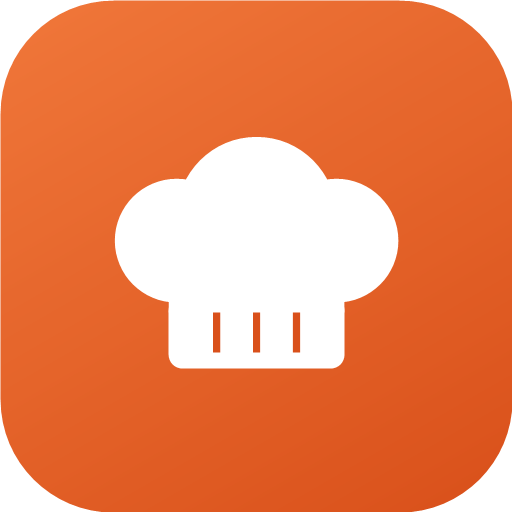
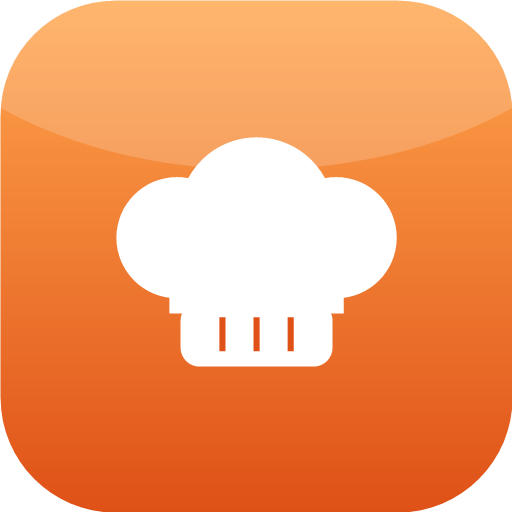
Guida in-app (onboarding e help) e nuova icona in stile iOS

diff --git a/js/ui.js b/js/ui.js
@@ -126,6 +126,15 @@ export function mount(rootEl) {
   document.querySelectorAll(".bottom-nav__btn").forEach((btn) => {
     btn.addEventListener("click", () => navigate(btn.dataset.route));
   });
+  const help = document.getElementById("helpBtn");
+  if (help) help.addEventListener("click", () => openGuide());
+  // Guida al primo avvio.
+  try {
+    if (!localStorage.getItem("ricettario.guide.v1")) {
+      localStorage.setItem("ricettario.guide.v1", "1");
+      setTimeout(() => openGuide(true), 500);
+    }
+  } catch {}
 }
 
 export function navigate(route) {
@@ -816,6 +825,40 @@ function renderSitiTab() {
   ).join("");
 }
 
+// ---------------- Guida / aiuto ----------------
+const GUIDE_SECTIONS = [
+  { icon: "cooking-pot", title: "Strumenti & ricette", text: "Organizza le ricette per strumento di cottura. Crea uno strumento (forno, friggitrice ad aria…) e salva sotto le ricette con link, ingredienti, porzioni e passi." },
+  { icon: "download-simple", title: "Importa dai link", text: "Nel form di una ricetta incolla il link e tocca \"Importa\": ingredienti e preparazione si compilano da soli (sui siti che lo permettono)." },
+  { icon: "book-open", title: "Ricettario", text: "Cerca idee online o tra i siti italiani; tocca \"Salva\" per aggiungerle a uno dei tuoi strumenti." },
+  { icon: "fork-knife", title: "Porzioni su misura", text: "Apri una ricetta e cambia il numero di persone con + e −: le quantità degli ingredienti si ricalcolano da sole." },
+  { icon: "shopping-cart-simple", title: "Spesa & Dispensa", text: "Aggiungi gli ingredienti alla lista della spesa (uniti e divisi per reparto). In \"Dispensa\" metti ciò che hai già in casa: non verrà rimesso nella spesa." },
+  { icon: "fire", title: "Modalità cucina", text: "Nelle ricette con i passi, tocca \"Modalità cucina\": istruzioni passo-passo, timer e schermo che resta acceso mentre cucini." },
+  { icon: "heart", title: "Preferiti, voti e ricerca", text: "Metti il cuore alle ricette migliori, dai un voto a stelle e cercale per nome o ingrediente dalla schermata Strumenti." },
+  { icon: "calendar-dots", title: "Pianificazione", text: "Nel calendario assegna le ricette ai giorni (pranzo o cena) e genera la lista della spesa dell'intero mese." },
+  { icon: "cloud-check", title: "Tutto al sicuro", text: "Con l'accesso le ricette sono salvate nel cloud e sincronizzate su tutti i dispositivi. Da Opzioni puoi anche esportare un backup." }
+];
+
+function openGuide(firstRun = false) {
+  const host = document.getElementById("modalRoot");
+  const el = document.createElement("div");
+  el.className = "guide";
+  el.innerHTML = `
+    <div class="guide__head">
+      <div class="guide__brand">${iconHtml("cooking-pot")} <b>Come funziona</b></div>
+      <button class="cook__close" id="gClose">${iconHtml("x")}</button>
+    </div>
+    <div class="guide__body">
+      ${firstRun ? `<div class="guide__hero"><img class="brand-logo" src="icons/icon.svg" alt="" /><h2 style="margin:0 0 4px">Benvenuta! 👋</h2><p style="color:var(--text-soft);margin:0">Ecco tutto quello che puoi fare.</p></div>` : ""}
+      ${GUIDE_SECTIONS.map((s) => `<div class="guide-card"><span class="guide-card__ic">${iconHtml(s.icon)}</span><div><div class="guide-card__t">${escapeHtml(s.title)}</div><div class="guide-card__x">${escapeHtml(s.text)}</div></div></div>`).join("")}
+    </div>
+    <div class="guide__foot"><button class="btn btn--primary btn--block" id="gOk">${firstRun ? "Inizia a cucinare" : "Ho capito"}</button></div>
+  `;
+  host.appendChild(el);
+  const close = () => el.remove();
+  el.querySelector("#gClose").onclick = close;
+  el.querySelector("#gOk").onclick = close;
+}
+
 // ---------------- Schermata: Lista della spesa ----------------
 function shopRow(it) {
   const qty = it.qty != null ? formatQty(it.qty) : "";
@@ -1141,6 +1184,15 @@ function renderImpostazioni() {
     <div class="setting-group">
       <div class="setting-row">
         <div>
+          <div class="setting-row__label">Come funziona l'app</div>
+          <div class="setting-row__desc">Rivedi la guida con tutte le funzioni.</div>
+        </div>
+        <button class="btn" id="guideBtn">Apri</button>
+      </div>
+    </div>
+    <div class="setting-group">
+      <div class="setting-row">
+        <div>
           <div class="setting-row__label">Esporta backup</div>
           <div class="setting-row__desc">Salva tutte le ricette in un file.</div>
         </div>
@@ -1174,6 +1226,8 @@ function renderImpostazioni() {
     const ok = await confirmDialog({ title: "Uscire dall'account?", message: "Potrai rientrare con email e password.", confirmText: "Esci" });
     if (ok) await handlers.onLogout();
   });
+
+  root.querySelector("#guideBtn").addEventListener("click", () => openGuide());
 
   root.querySelector("#exportBtn").addEventListener("click", () => {
     const data = store.exportData();
@@ -1230,7 +1284,7 @@ export function renderLogin() {
   const draw = () => {
     root.innerHTML = `
       <div style="max-width:380px;margin:8vh auto 0;text-align:center">
-        <div class="login-logo">🍳</div>
+        <img class="brand-logo" src="icons/icon.svg" alt="" />
         <h1 class="page-title" style="text-align:center">Ricettario</h1>
         <p class="page-sub" style="text-align:center">${isRegister ? "Crea il tuo account per il backup nel cloud." : "Accedi per sincronizzare le tue ricette."}</p>
         <div class="setting-group" style="text-align:left;padding:16px">

diff --git a/styles.css b/styles.css
@@ -68,7 +68,8 @@ a { color: var(--primary-2); }
   z-index: 50;
 }
 .app-header__title { display: flex; align-items: center; gap: 9px; font-weight: 800; font-size: 1.2rem; letter-spacing: -0.3px; }
-.app-header__logo { font-size: 1.35rem; }
+.app-header__logo { width: 28px; height: 28px; border-radius: 8px; display: block; }
+.brand-logo { width: 76px; height: 76px; border-radius: 20px; display: block; margin: 0 auto 4px; box-shadow: var(--glow); }
 .app-header__name {
   background: var(--primary-grad);
   -webkit-background-clip: text;
@@ -641,6 +642,23 @@ a { color: var(--primary-2); }
 .cook__time { font-size: 2rem; font-weight: 800; font-variant-numeric: tabular-nums; min-width: 92px; text-align: center; }
 .cook__toggle { padding: 12px 18px; }
 .cook__nav { display: flex; gap: 10px; }
+
+/* ---------- Pulsante guida nell'header ---------- */
+.app-header__status { display: flex; align-items: center; gap: 10px; }
+.header-btn { width: 30px; height: 30px; border-radius: 50%; border: 1px solid rgba(255, 255, 255, 0.18); background: rgba(255, 255, 255, 0.08); color: var(--text); font-weight: 800; font-size: 0.95rem; display: flex; align-items: center; justify-content: center; }
+
+/* ---------- Guida ---------- */
+.guide { position: fixed; inset: 0; z-index: 320; background: radial-gradient(120% 80% at 50% -10%, #2a2018, #0e0f13 55%); display: flex; flex-direction: column; animation: fade 0.2s ease; }
+.guide__head { display: flex; align-items: center; justify-content: space-between; padding: calc(var(--safe-top) + 12px) 18px 10px; }
+.guide__brand { display: flex; align-items: center; gap: 8px; font-size: 1.1rem; }
+.guide__brand .ic { color: var(--primary-2); font-size: 1.3rem; }
+.guide__body { flex: 1; overflow-y: auto; padding: 6px 18px 10px; max-width: 640px; margin: 0 auto; width: 100%; }
+.guide__hero { text-align: center; padding: 10px 0 18px; }
+.guide-card { display: flex; gap: 13px; align-items: flex-start; background: linear-gradient(160deg, #22232b, #191a20); border: 1px solid var(--surface-3); border-radius: 16px; padding: 14px; margin-bottom: 10px; }
+.guide-card__ic { width: 40px; height: 40px; flex-shrink: 0; border-radius: 11px; display: flex; align-items: center; justify-content: center; background: var(--surface-2); color: var(--primary-2); font-size: 1.25rem; }
+.guide-card__t { font-weight: 800; margin-bottom: 3px; }
+.guide-card__x { color: var(--text-soft); font-size: 0.9rem; line-height: 1.45; }
+.guide__foot { padding: 12px 18px calc(var(--safe-bottom) + 16px); max-width: 640px; margin: 0 auto; width: 100%; }
 
 @keyframes spin { to { transform: rotate(360deg); } }
 @keyframes fade { from { opacity: 0; } to { opacity: 1; } }

diff --git a/index.html b/index.html
@@ -17,10 +17,11 @@
   <!-- Header -->
   <header class="app-header">
     <div class="app-header__title">
-      <span class="app-header__logo">🍳</span>
+      <img class="app-header__logo" src="icons/icon.svg" alt="" />
       <span class="app-header__name">Ricettario</span>
     </div>
     <div class="app-header__status">
+      <button id="helpBtn" class="header-btn" title="Guida" aria-label="Guida">?</button>
       <span id="syncBadge" class="badge badge--local" title="Stato salvataggio">Locale</span>
     </div>
   </header>

diff --git a/sw.js b/sw.js
@@ -1,7 +1,7 @@
 // Service worker: mette in cache l'app per l'uso offline e l'installazione.
 // I dati (Firestore/TheMealDB) NON passano da qui: vanno sempre in rete / cache propria.
 
-const CACHE = "ricettario-v6";
+const CACHE = "ricettario-v7";
 const APP_SHELL = [
   "./",
   "./index.html",